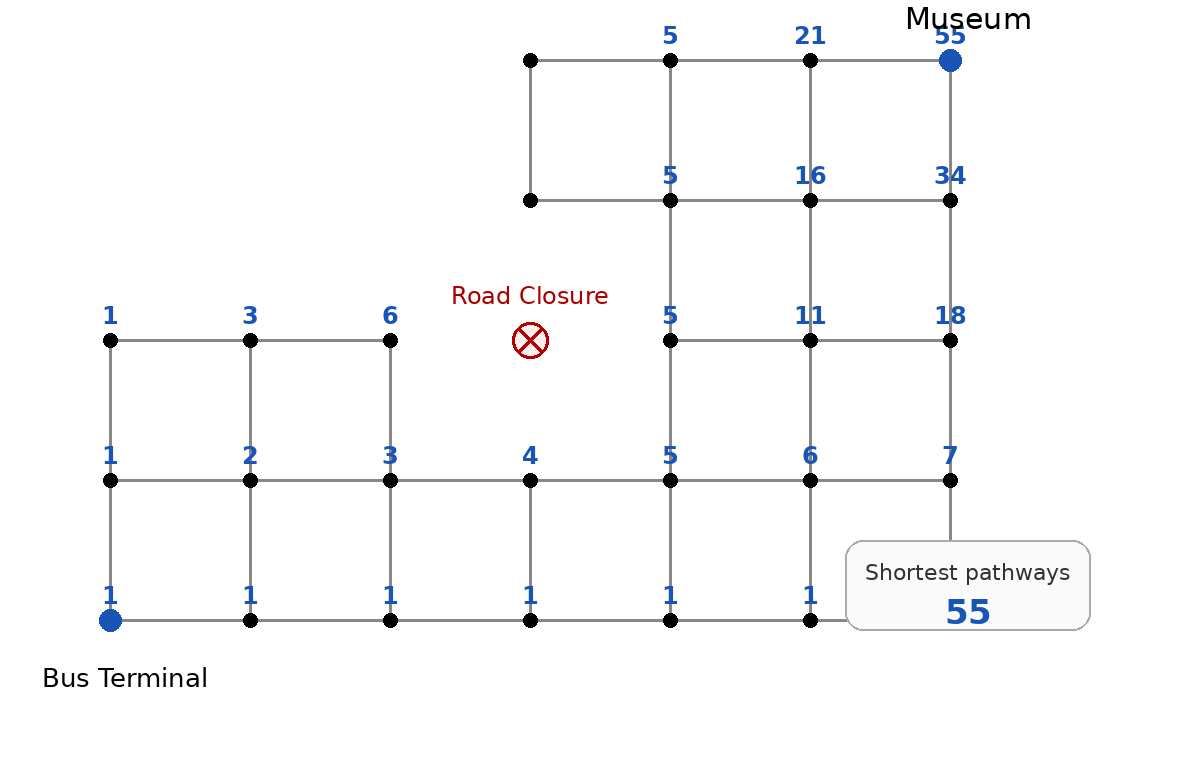
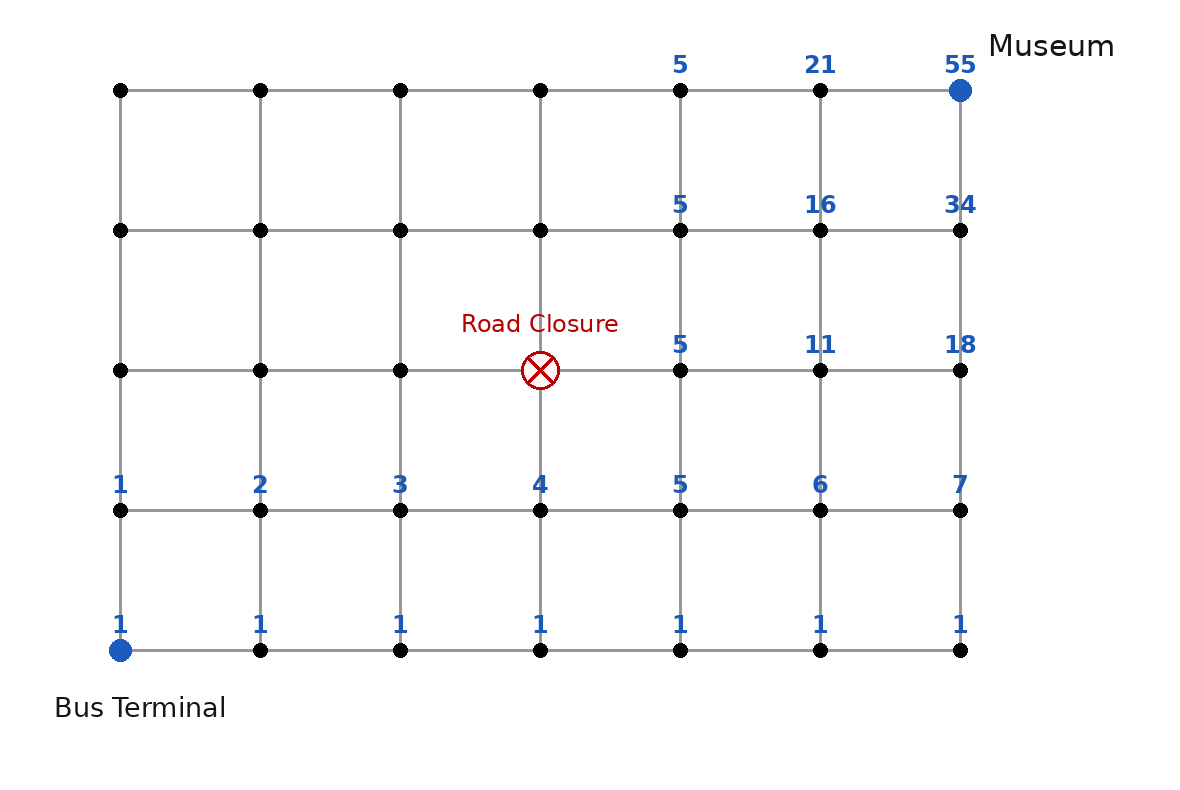
Publish course website 2026-11-03 05:31

Changed region(s): [[0.061, 0.0, 0.9458, 0.8474], [0.0305, 0.8776, 0.1831, 0.9079]]

diff --git a/quartz/static/teacher-control-panel/index.html b/quartz/static/teacher-control-panel/index.html
@@ -651,7 +651,7 @@ Teacher QOD Control Panel
 </h1>
 
 <div class="stamp">
-Generated Nov 3, 2026, 4:19 a.m.
+Generated Nov 3, 2026, 4:31 a.m.
 </div>
 
 <p class="sub">

diff --git a/content/Math/Combinatorics/Pascal's Triangle - Map Pathways 2.md b/content/Math/Combinatorics/Pascal's Triangle - Map Pathways 2.md
@@ -28,25 +28,25 @@ Using **Pascal's Triangle**, determine the number of distinct shortest pathways 
 >
 > ### Case 1: Pathways above the Road Closure
 >
-> Count only the junctions in the upper L-shaped region. Start at the **Bus Terminal** with \(1\), and use Pascal's Triangle counting: each interior number is the sum of the numbers from the junction directly to the **left** and directly **below**.
+> Count only the junctions that can contribute to a shortest pathway passing **above** the Road Closure. Start at the **Bus Terminal** with $1$, and use Pascal's Triangle counting: each relevant interior number is the sum of the relevant numbers from the junction directly to the **left** and directly **below**.
 >
 > ![[Pascal Pathway Solution Map 2 Upper.png]]
 >
-> The number at the **Museum** is \(55\), so there are \(55\) shortest pathways that go above the Road Closure.
+> The number at the **Museum** is $55$, so there are $55$ shortest pathways that go above the Road Closure.
 >
 > ### Case 2: Pathways below the Road Closure
 >
-> Now count only the junctions in the lower L-shaped region.
+> Now count only the junctions that can contribute to a shortest pathway passing **below** the Road Closure.
 >
 > ![[Pascal Pathway Solution Map 2 Lower.png]]
 >
-> The number at the **Museum** is again \(55\), so there are \(55\) shortest pathways that go below the Road Closure.
+> The number at the **Museum** is again $55$, so there are $55$ shortest pathways that go below the Road Closure.
 >
 > Therefore, by the Addition Principle,
 >
-> \[
+> $$
 > 55+55=\boxed{110}.
-> \]
+> $$
 
 > [!abstract] Review First
 > - [[Math/Combinatorics/Pascal's Triangle - Map Pathways 1|Pascal's Triangle - Map Pathways 1]]
